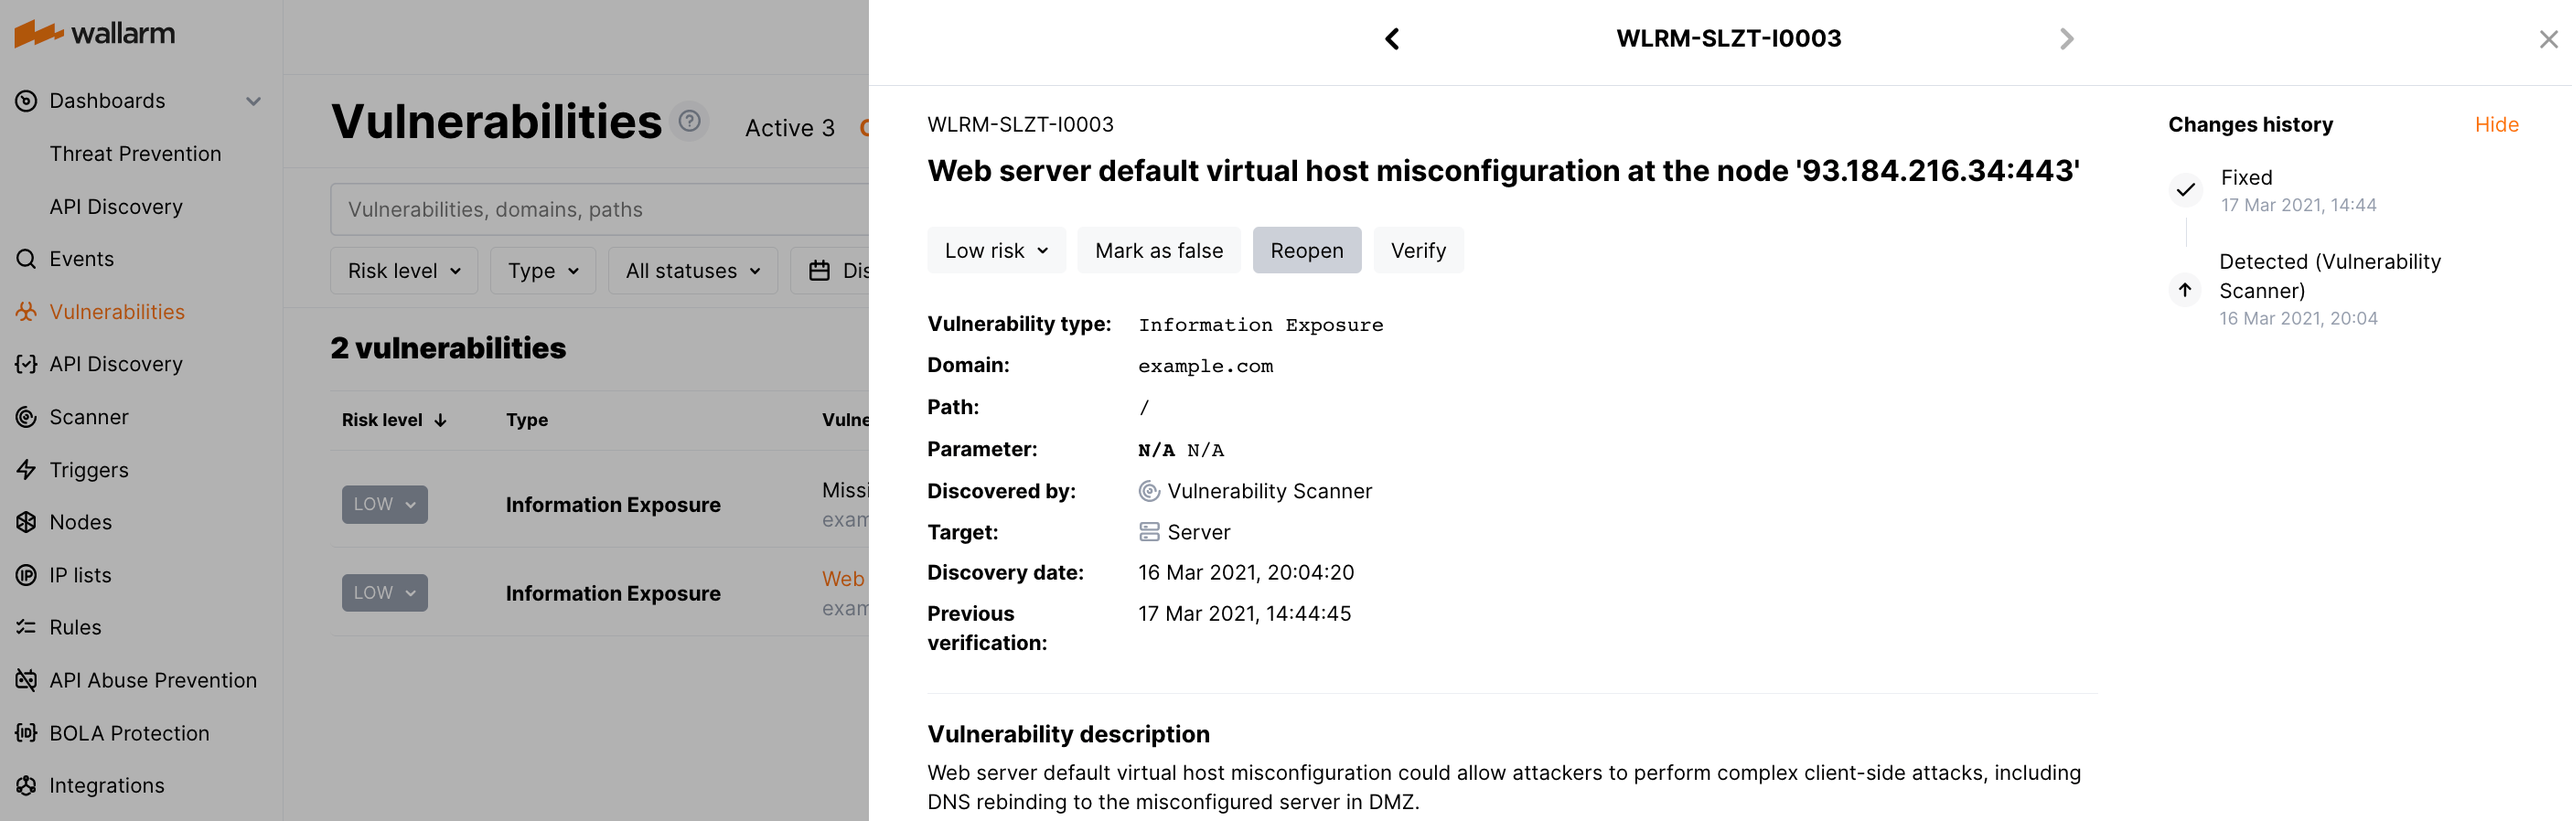
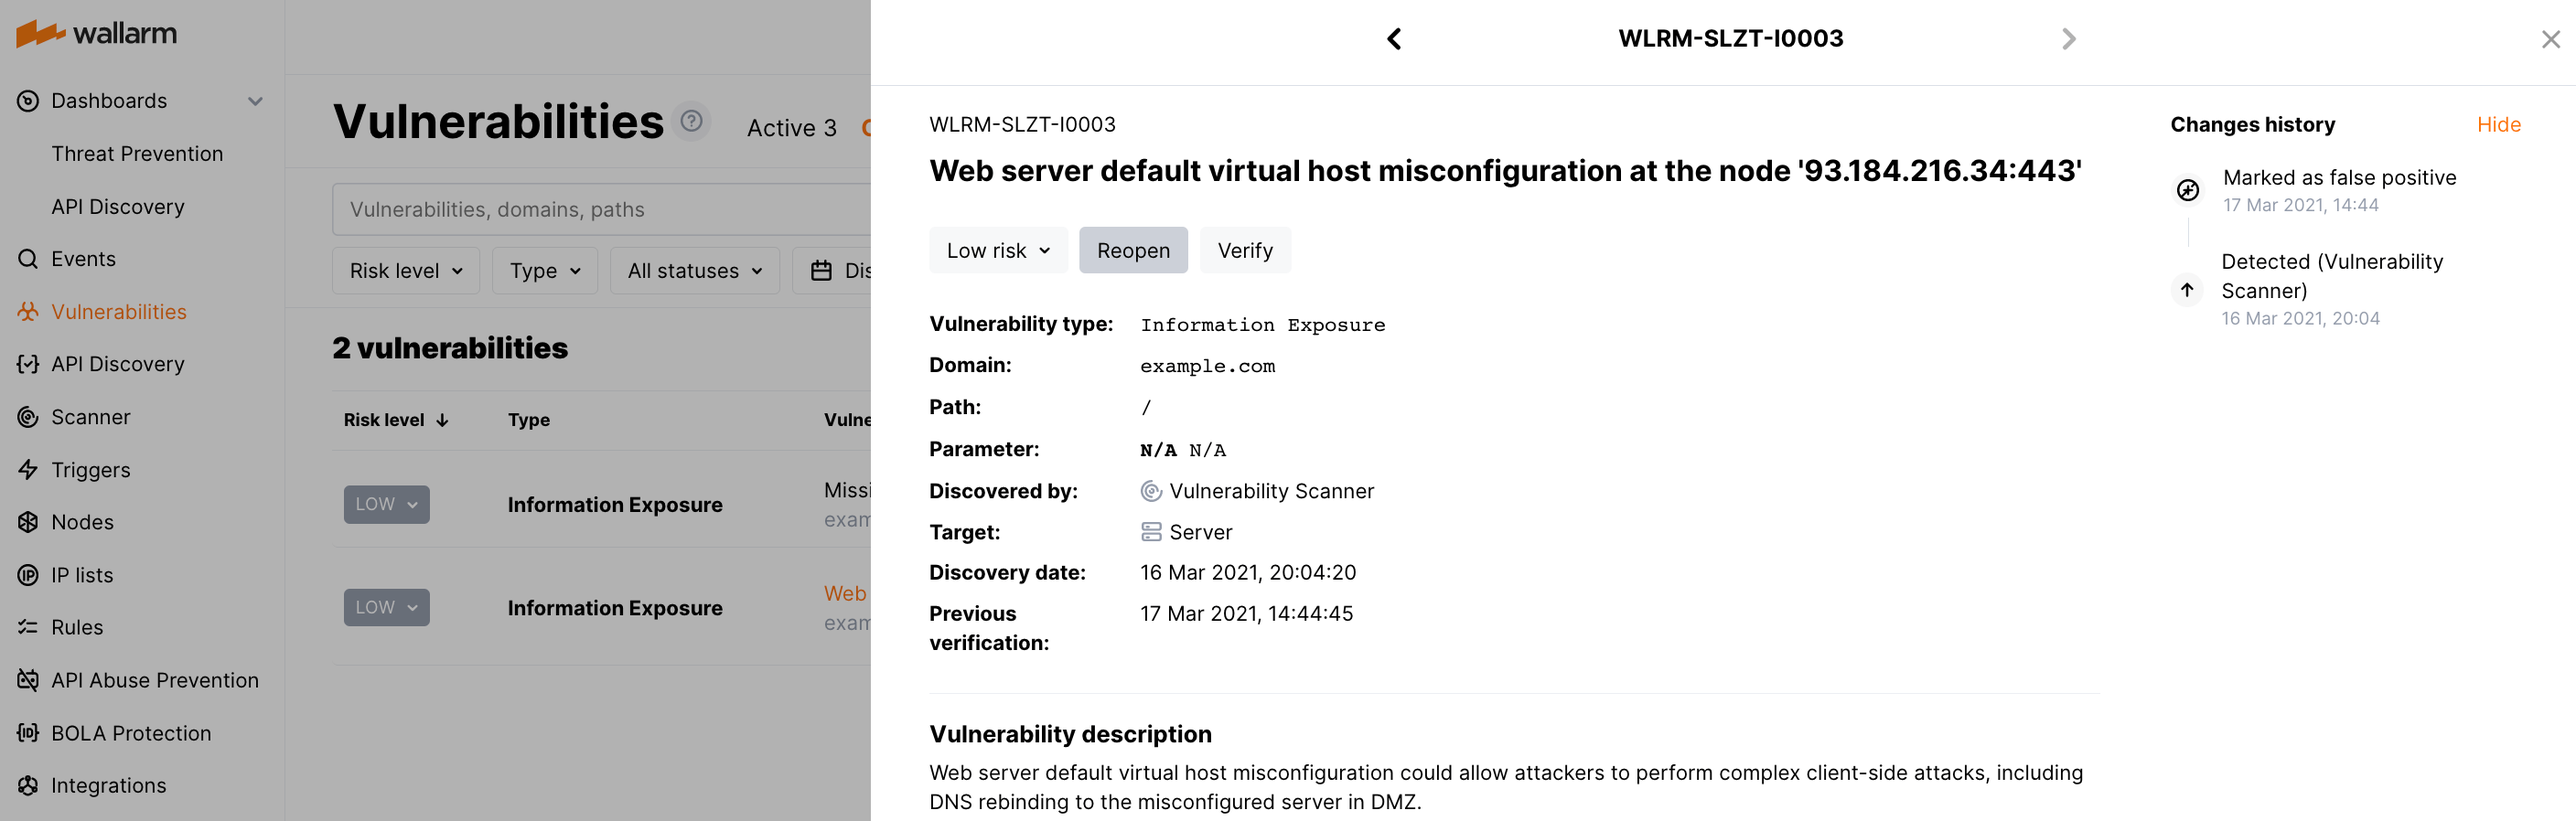
fix broken link to the vulns UI docs

diff --git a/docs/2.18/about-wallarm/detecting-vulnerabilities.md b/docs/2.18/about-wallarm/detecting-vulnerabilities.md
@@ -69,7 +69,7 @@ Vulnerability Scanner checks all company's exposed assets for typical vulnerabil
 
 False positives in vulnerability scanning may occur due to the protected application specificities. Similar responses to similar requests may indicate an active vulnerability in one protected application and be expected behavior of another protected application.
 
-If a false positive for a vulnerability is detected, you can add an appropriate mark to the vulnerability in Wallarm Console. A vulnerability marked as a false positive will be closed and will not be rechecked.
+If a false positive for a vulnerability is detected, you can add an appropriate mark to the vulnerability in Wallarm Console. A vulnerability marked as a false positive will be switched to an appropriate status and will not be checked by the **Active threat verification** module. [More about managing false positives via Wallarm Console →](../user-guides/vulnerabilities.md#marking-vulnerabilities-as-false-positives)
 
 If the detected vulnerability exists in the protected application but cannot be fixed, we recommend setting up the [**Create a virtual patch**](../user-guides/rules/vpatch-rule.md) rule. This rule will allow blocking attacks exploiting the detected type of vulnerability and will eliminate the risk of an incident.
 

diff --git a/docs/4.4-ja/user-guides/vulnerabilities.md b/docs/4.4-ja/user-guides/vulnerabilities.md
@@ -1,0 +1,1 @@
+--8<-- "latest/user-guides/vulnerabilities.md"
